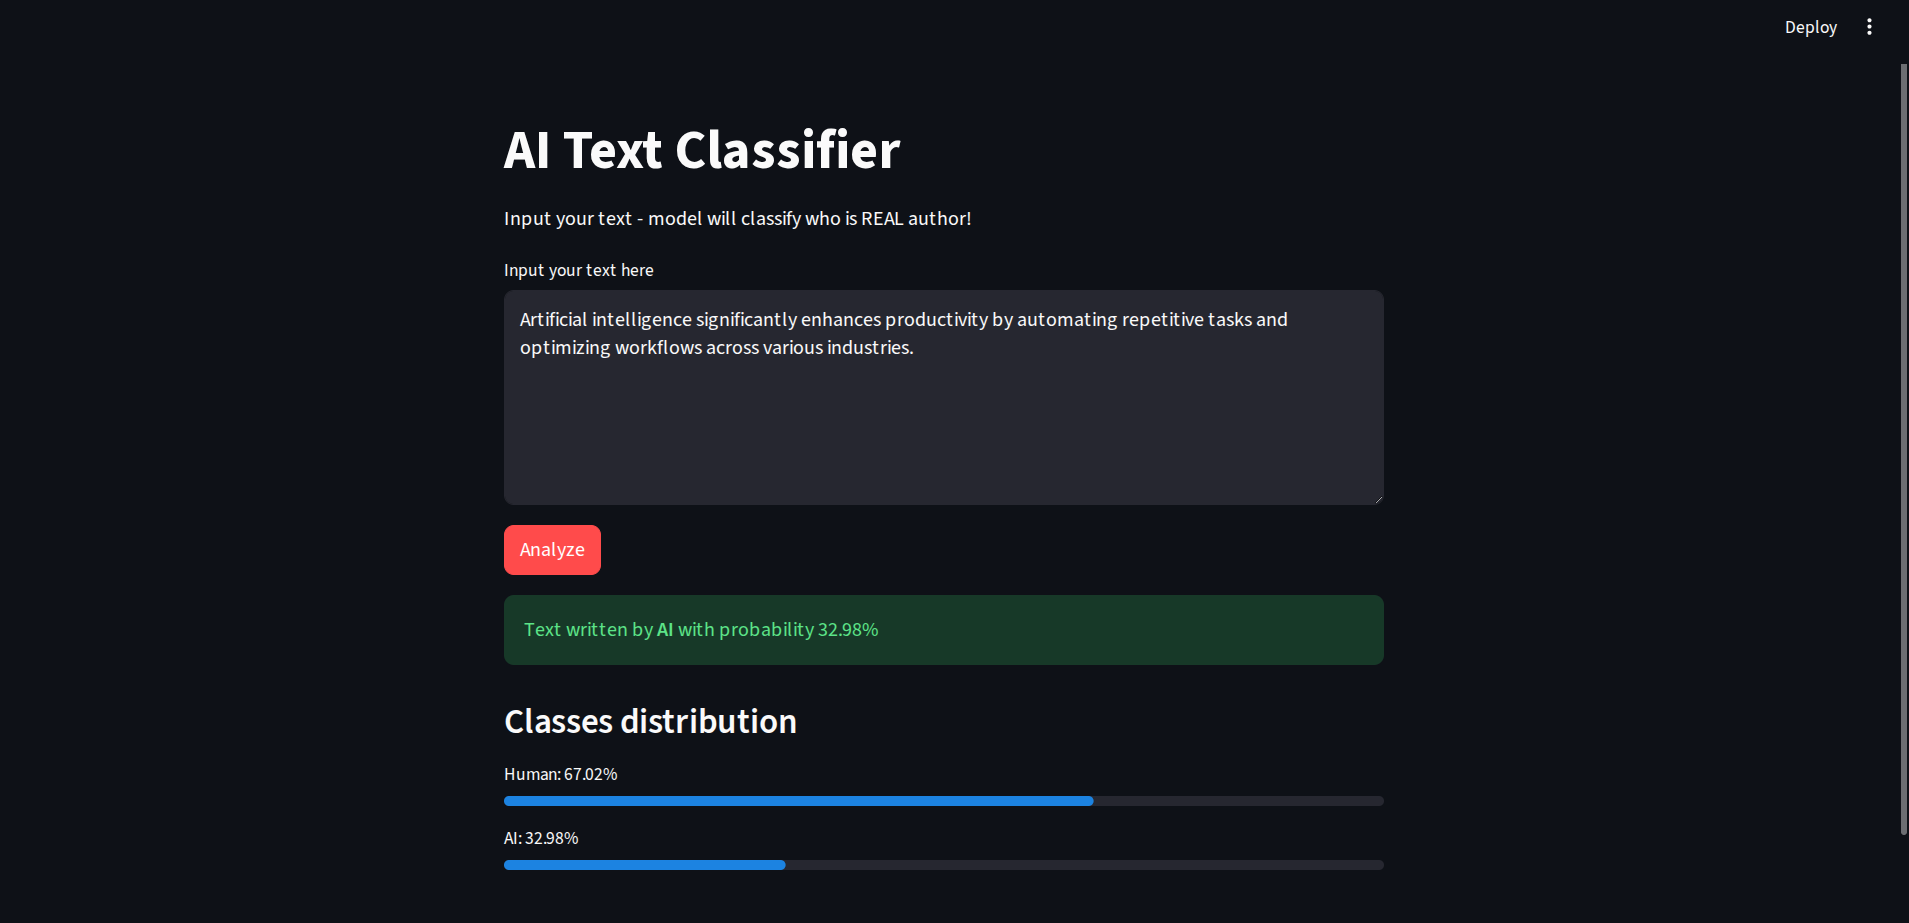
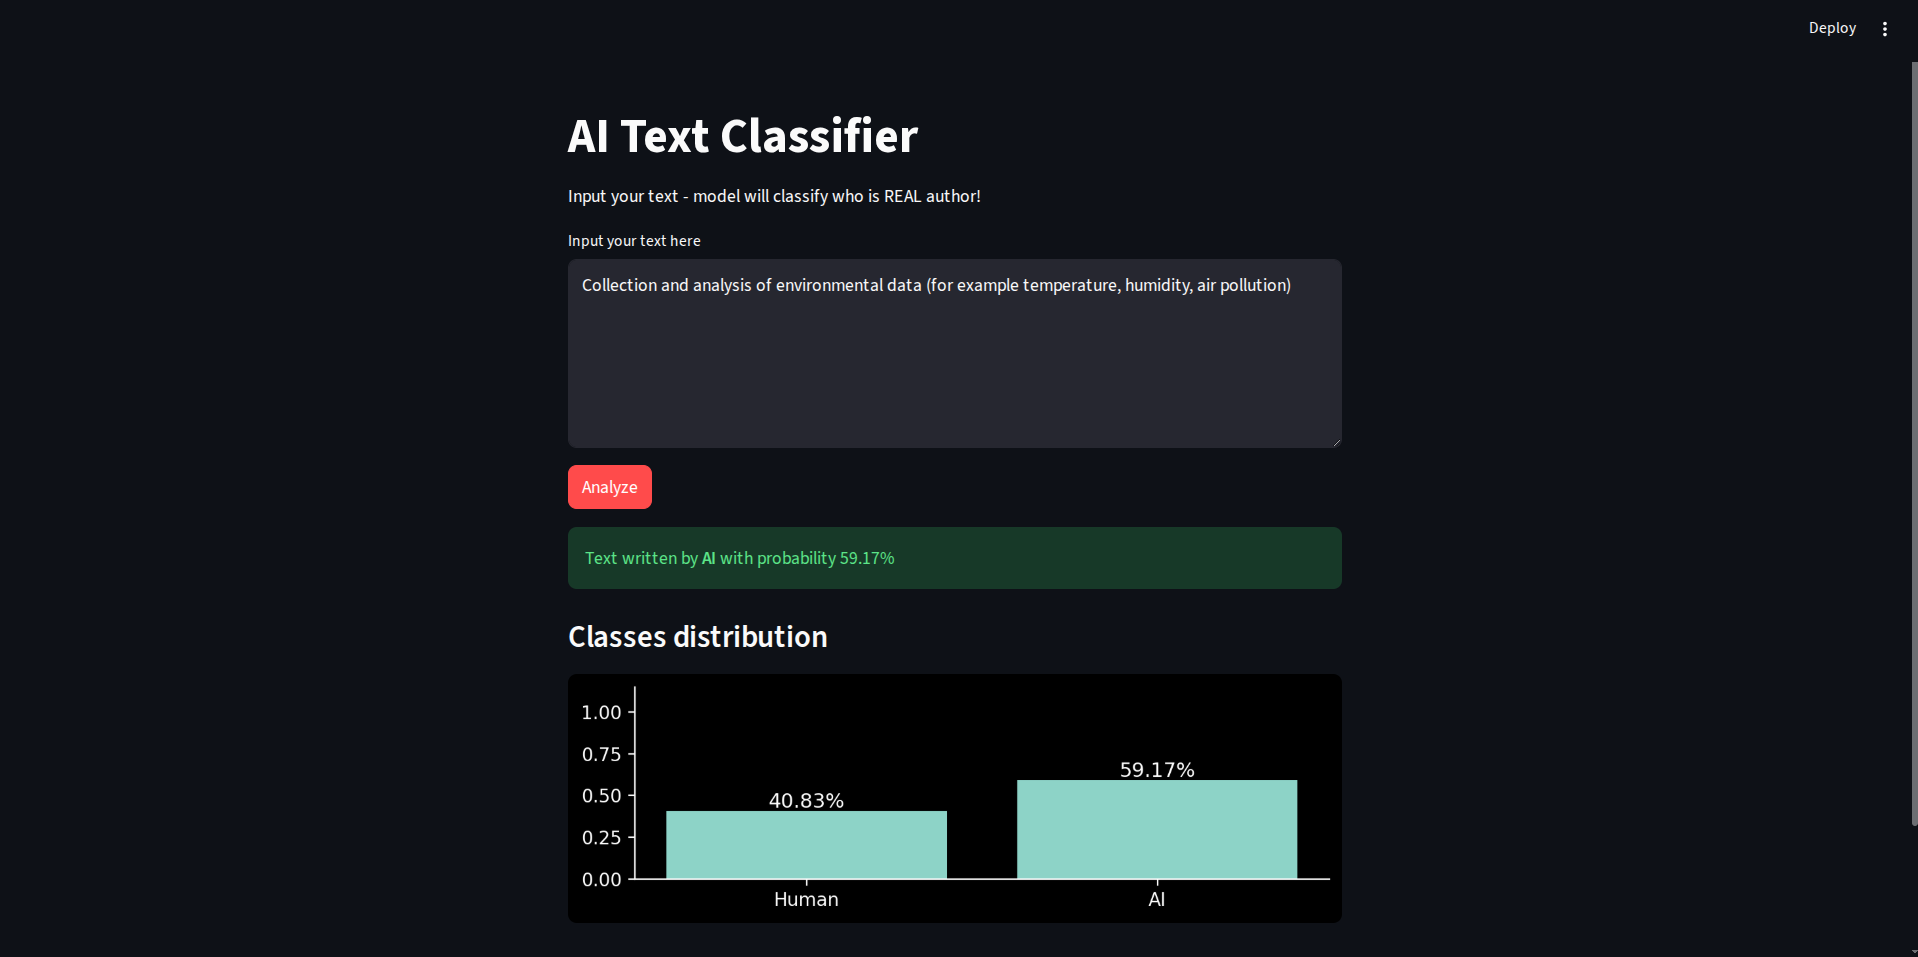
feat: plots instead of text

Changed region(s): [[0.2472, 0.1213, 0.7417, 0.9707], [0.989, 0.0607, 1.0, 0.9101], [0.9272, 0.0, 0.9581, 0.0607]]

diff --git a/app.py b/app.py
@@ -1,6 +1,9 @@
 import streamlit as st
 import torch
 import torch.nn.functional as F
+import matplotlib.pyplot as plt
+
+plt.style.use("dark_background")
 
 LABEL_NAMES = {
     "LABEL_0": "Human",
@@ -67,5 +70,24 @@ if __name__ == "__main__":
             )
 
             st.subheader("Classes distribution")
-            for label, prob in sorted(results.items(), key=lambda x: -x[1]):
-                st.progress(prob, text=f"{label}: {prob:.2%}")
+            labels = list(results.keys())
+            probs = list(results.values())
+
+            fig, ax = plt.subplots(figsize=(6, 2))
+            bars = ax.bar(labels, probs)
+
+            for bar, prob in zip(bars, probs):
+                ax.text(
+                    bar.get_x() + bar.get_width() / 2,
+                    bar.get_height() + 0.02,
+                    f"{prob:.2%}",
+                    ha="center",
+                    fontsize=11,
+                )
+
+            ax.set_ylim(0, 1.15)
+            ax.spines[["top", "right"]].set_visible(False)
+
+            plt.tight_layout()
+            st.pyplot(fig)
+            plt.close(fig)

diff --git a/README.md b/README.md
@@ -42,7 +42,7 @@ uv run streamlit run app.py
 ```
 
 ## Todo
-+ Find & fine-tune on better quality dataset;
-+ Add some plots to the `streamlit` interface;
-+ Add configuration file;
-+ ...
+- [ ] Find & fine-tune on better quality dataset;
+- [x] Add some plots to the `streamlit` interface;
+- [ ] Add configuration file;
+- [ ] ...
